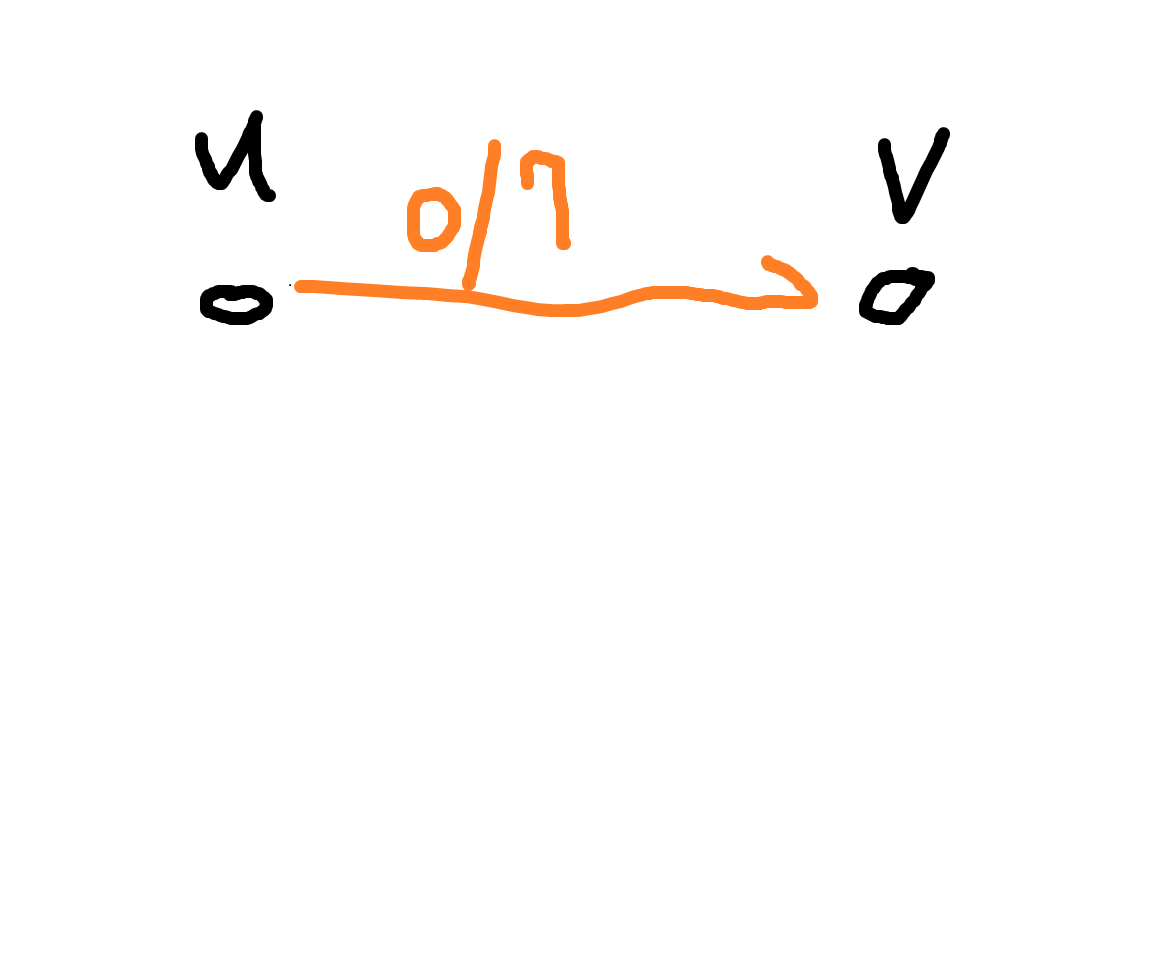
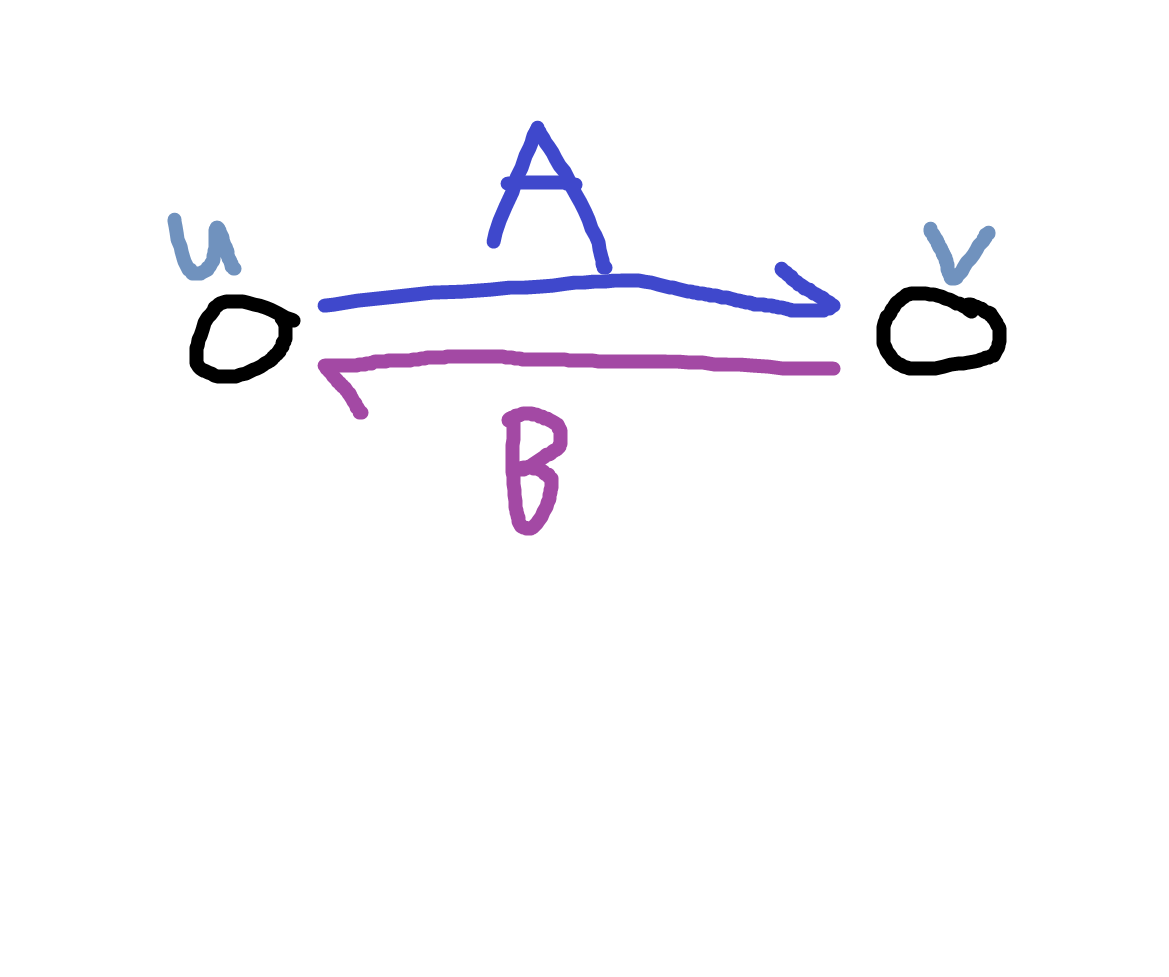
flow algorithm

Changed region(s): [[0.1232, 0.1228, 0.8623, 0.5527], [0.7391, 0.1228, 0.8007, 0.2456], [0.8007, 0.1228, 0.8315, 0.1535]]

diff --git a/post/tutorial/flow/flow-algorithm/index.html b/post/tutorial/flow/flow-algorithm/index.html
@@ -147,8 +147,25 @@ layui.use('element', function(){
 
                 </blockquote>
                 <div class="layui-card-body markdown-body single-content">
-                    <h2 id="目的">目的</h2>
+                    <h2 id="前言">前言</h2>
 <p>這篇來介紹怎麼使用演算法來解決 最大流問題</p>
+<h2 id="先備知識">先備知識</h2>
+<p>知道 flow 是啥</p>
+<p>知道 flow 在圖上大概長怎樣</p>
+<h3 id="管道逆流">管道逆流</h3>
+<p>等等會提到一個很關鍵的步驟是管道逆流</p>
+<p>也就是說當有一條水管 $u \to v$</p>
+<p>被流過去 $f$ 這條水量時</p>
+<p>我們允許 $v \to u$ 多逆流回去 $f$</p>
+<p>而詳細的操作應該是</p>
+<p>當有一條容量為 $C$ 的水管 $u \to v, v \to u$</p>
+<p>那麼當 $u \to v$ 是 $A$，$v \to u$ 是 $B$ 時</p>
+<p>當 $u \to v$ 多流 $x$ 的時候， $v \to u$ 應該就要減少流量 $x$</p>
+<p>這樣就確保 $\vert A - B \vert \le C$</p>
+<p><img src="/img/Tutorial/Flow/flow-algorithm/photo1.png" alt="photo1"></p>
+<p><img src="/img/Tutorial/Flow/flow-algorithm/photo2.png" alt="photo2"></p>
+<p><img src="/img/Tutorial/Flow/flow-algorithm/photo3.png" alt="photo3"></p>
+<p><img src="/img/Tutorial/Flow/flow-algorithm/photo4.png" alt="photo4"></p>
 <h2 id="fulkerson-ford-方法">Fulkerson Ford 方法</h2>
 <p>這是一種方法，不是一種演算法!</p>
 <p>Fulkerson Ford 告訴你，當你每次找一條增廣路(邊上流量都是正數的流)</p>
@@ -161,8 +178,6 @@ layui.use('element', function(){
 <p>我們可以感性理解一下，把它想像成一種 greedy 的體現方法</p>
 <p>當我走過那條邊的時候，我可以反著逆回去，把水流推回去</p>
 <p>也就是說我們允許之後可以將我們當前的操作逆轉回去</p>
-<!-- raw HTML omitted -->
-<!-- raw HTML omitted -->
 <p>好那麼這樣我們就講完 Fulkerson Ford 的觀念了!</p>
 <p>時間複雜度的話 $O(F \text{搜尋時間})$</p>
 <p>$F$ 是流大小，搜尋時間通常為 $E$ 因為用 BFS、DFS</p>
@@ -243,7 +258,7 @@ layui.use('element', function(){
 </span></span><span style="display:flex;"><span>        <span style="color:#66d9ef">auto</span> <span style="color:#f92672">&amp;</span>[v, c, f] <span style="color:#f92672">=</span> edges[fr[now]]; <span style="color:#75715e">// 去的邊
 </span></span></span><span style="display:flex;"><span><span style="color:#75715e"></span>        <span style="color:#66d9ef">auto</span> <span style="color:#f92672">&amp;</span>[u, C, F] <span style="color:#f92672">=</span> edges[fr[now]<span style="color:#f92672">^</span><span style="color:#ae81ff">1</span>]; <span style="color:#75715e">// 反向邊
 </span></span></span><span style="display:flex;"><span><span style="color:#75715e"></span>        f <span style="color:#f92672">+=</span> re;
-</span></span><span style="display:flex;"><span>        F <span style="color:#f92672">+=</span> re;
+</span></span><span style="display:flex;"><span>        F <span style="color:#f92672">-=</span> re;
 </span></span><span style="display:flex;"><span>        now <span style="color:#f92672">=</span> u;
 </span></span><span style="display:flex;"><span>    }
 </span></span><span style="display:flex;"><span>}
@@ -256,6 +271,7 @@ layui.use('element', function(){
 <p>你還要學一些酷酷的性質</p>
 <h3 id="最小點覆蓋與最大流">最小點覆蓋與最大流</h3>
 <p><strong>Konig 定理</strong> 跟你說</p>
+<p>對於二分圖上</p>
 <p>最小點覆蓋 = 最大流</p>
 <h3 id="最小鏈覆蓋與最大流">最小鏈覆蓋與最大流</h3>
 <p>當每條鏈的節點不可重複時</p>
